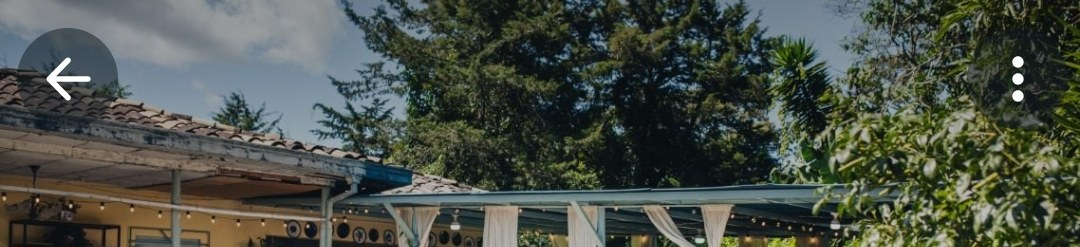
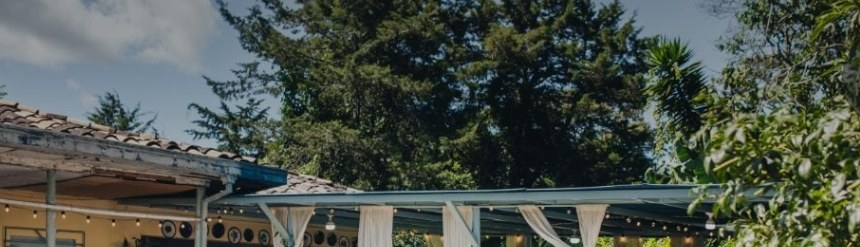
Fotos de la finca sin botones de WhatsApp; imagen de vista previa limpia
Claude-Session: https://claude.ai/code/session_01Qv96KWyKKuzsVfn16YZe9G

diff --git a/sw.js b/sw.js
@@ -1,4 +1,4 @@
-const C='creare-v1';
+const C='creare-v2';
 const A=['./','index.html','manifest.json','img/icon-192.png','img/icon-512.png','img/finca-izq.jpg','img/finca-der.jpg','img/finca-banner.jpg','img/equipo-entrada.jpg','img/ilustracion-finca.jpg','img/cumple.jpg','img/estanteria.jpg','img/patio.jpg'];
 self.addEventListener('install',e=>{e.waitUntil(caches.open(C).then(c=>c.addAll(A)));self.skipWaiting()});
 self.addEventListener('activate',e=>{e.waitUntil(caches.keys().then(k=>Promise.all(k.filter(x=>x!==C).map(x=>caches.delete(x)))));self.clients.claim()});
